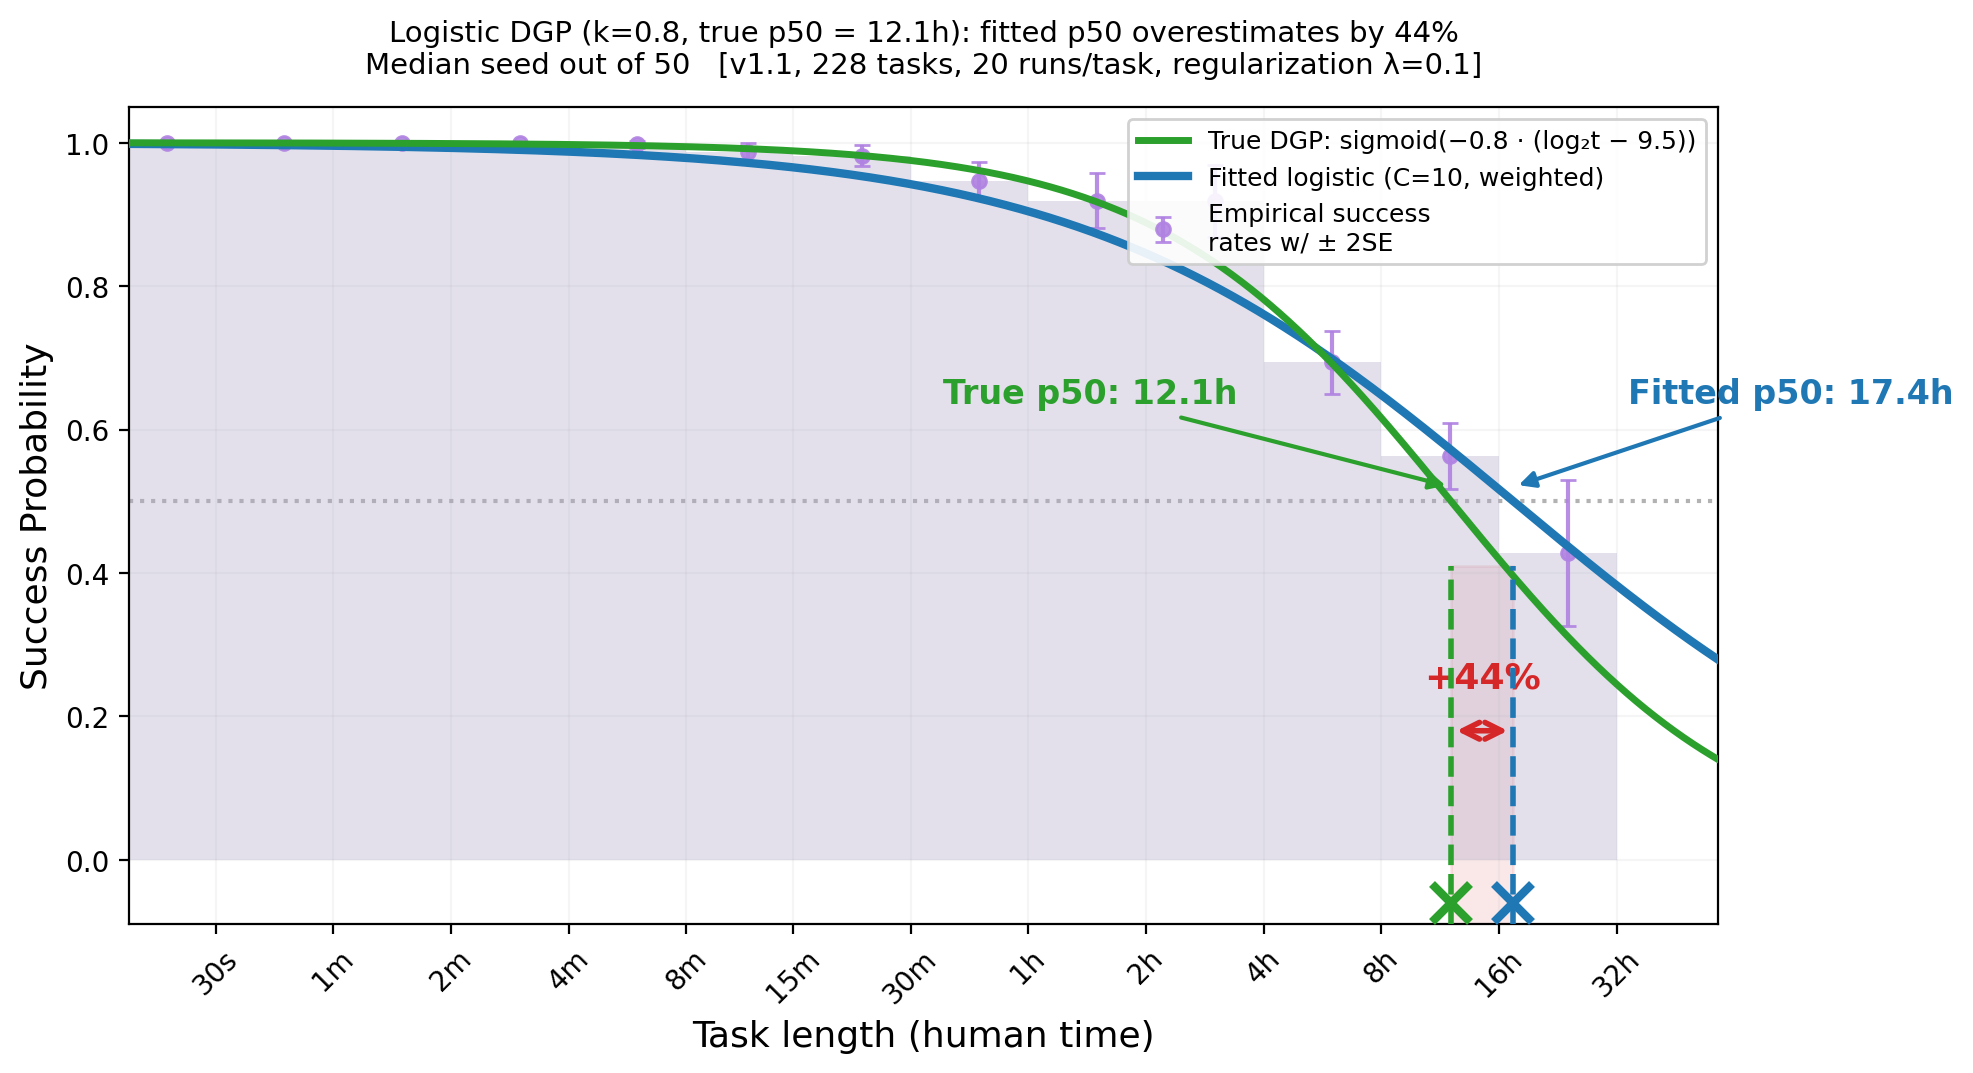
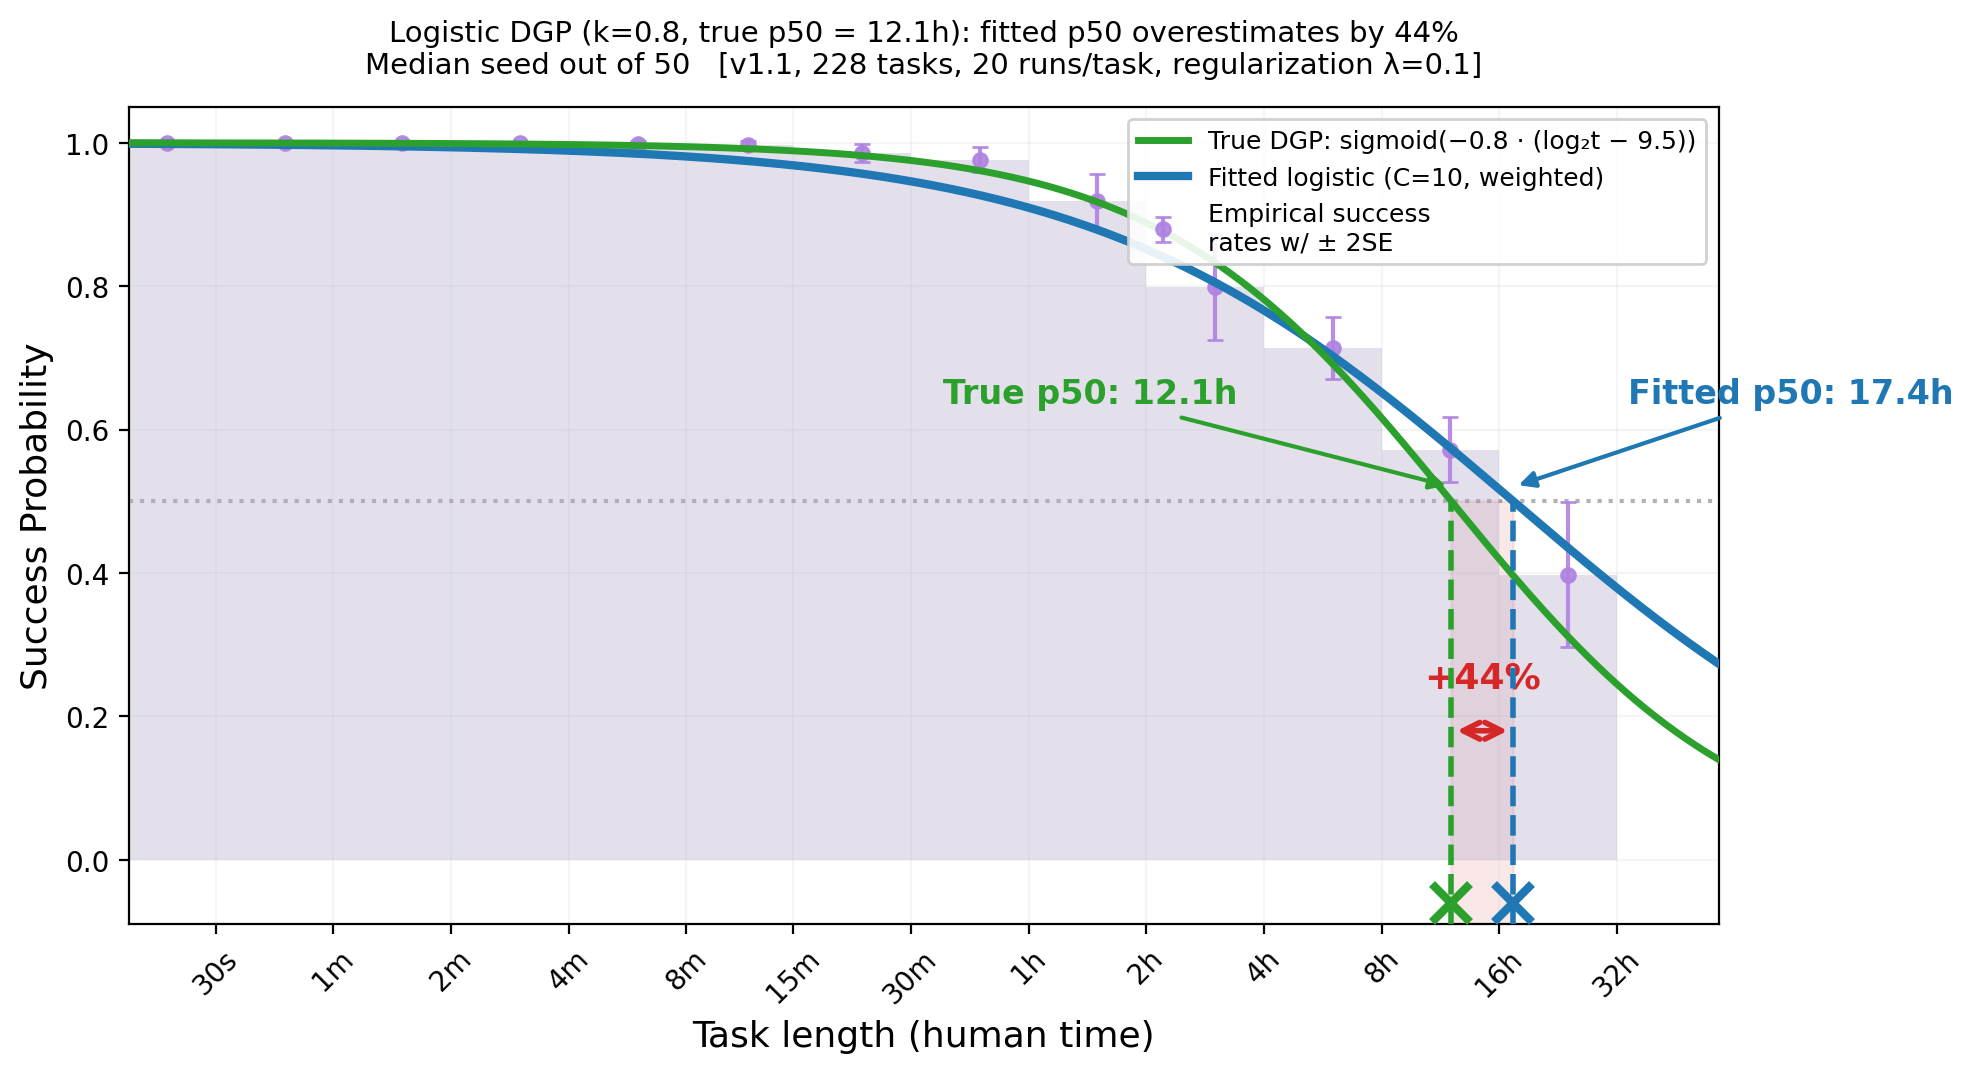
Fix ymax calculation for p50 reference lines in inflation figures
The axvspan/axvline ymax was using 0.5/1.14 which placed lines at
y≈0.41 instead of y=0.5. Corrected to 0.59/1.14 to account for the
y-axis offset of -0.09. Also added .venv/ to .gitignore.

diff --git a/experiments/inflation_figures.py b/experiments/inflation_figures.py
@@ -228,12 +228,13 @@ def make_figure(tasks, output_path):
 
     # Shade the inflation gap
     lo, hi = min(dgp_true_p50, fit_p50), max(dgp_true_p50, fit_p50)
-    ax.axvspan(lo, hi, ymin=0, ymax=0.5 / 1.14,
+    ymax_axes = 0.59 / 1.14  # axes-coord for y=0.5 given ylim=[-0.09, 1.05]
+    ax.axvspan(lo, hi, ymin=0, ymax=ymax_axes,
                alpha=0.10, color="#d62728", zorder=1)
 
     # True p50 marker
     ax.axvline(dgp_true_p50, color="#2ca02c", linestyle="--", linewidth=2,
-               ymax=0.5 / 1.14, zorder=6)
+               ymax=ymax_axes, zorder=6)
     ax.plot(dgp_true_p50, -0.06, "x", color="#2ca02c", markersize=14,
             markeredgewidth=3, zorder=6, clip_on=False)
     ax.annotate(f"True p50: {format_time_label(dgp_true_p50 * 60)}",
@@ -246,7 +247,7 @@ def make_figure(tasks, output_path):
 
     # Fitted p50 marker
     ax.axvline(fit_p50, color="#1f77b4", linestyle="--", linewidth=2,
-               ymax=0.5 / 1.14, zorder=6)
+               ymax=ymax_axes, zorder=6)
     ax.plot(fit_p50, -0.06, "x", color="#1f77b4", markersize=14,
             markeredgewidth=3, zorder=6, clip_on=False)
     ax.annotate(f"Fitted p50: {format_time_label(fit_p50 * 60)}",
@@ -353,10 +354,11 @@ def make_scatter_figure(tasks, outcomes, model, output_path):
     ax.axhline(0.5, linestyle="dotted", alpha=0.3, color="black", zorder=1)
 
     # p50 markers
+    ymax_axes = 0.59 / 1.14  # axes-coord for y=0.5 given ylim=[-0.09, 1.05]
     ax.axvline(dgp_true_p50, color="#2ca02c", linestyle="--", linewidth=1.5,
-               ymax=0.5 / 1.14, zorder=6, alpha=0.7)
+               ymax=ymax_axes, zorder=6, alpha=0.7)
     ax.axvline(fit_p50, color="#1f77b4", linestyle="--", linewidth=1.5,
-               ymax=0.5 / 1.14, zorder=6, alpha=0.7)
+               ymax=ymax_axes, zorder=6, alpha=0.7)
 
     bias_pct = (fit_p50 - dgp_true_p50) / dgp_true_p50 * 100
     ax.annotate(f"True p50\n{format_time_label(dgp_true_p50 * 60)}",
